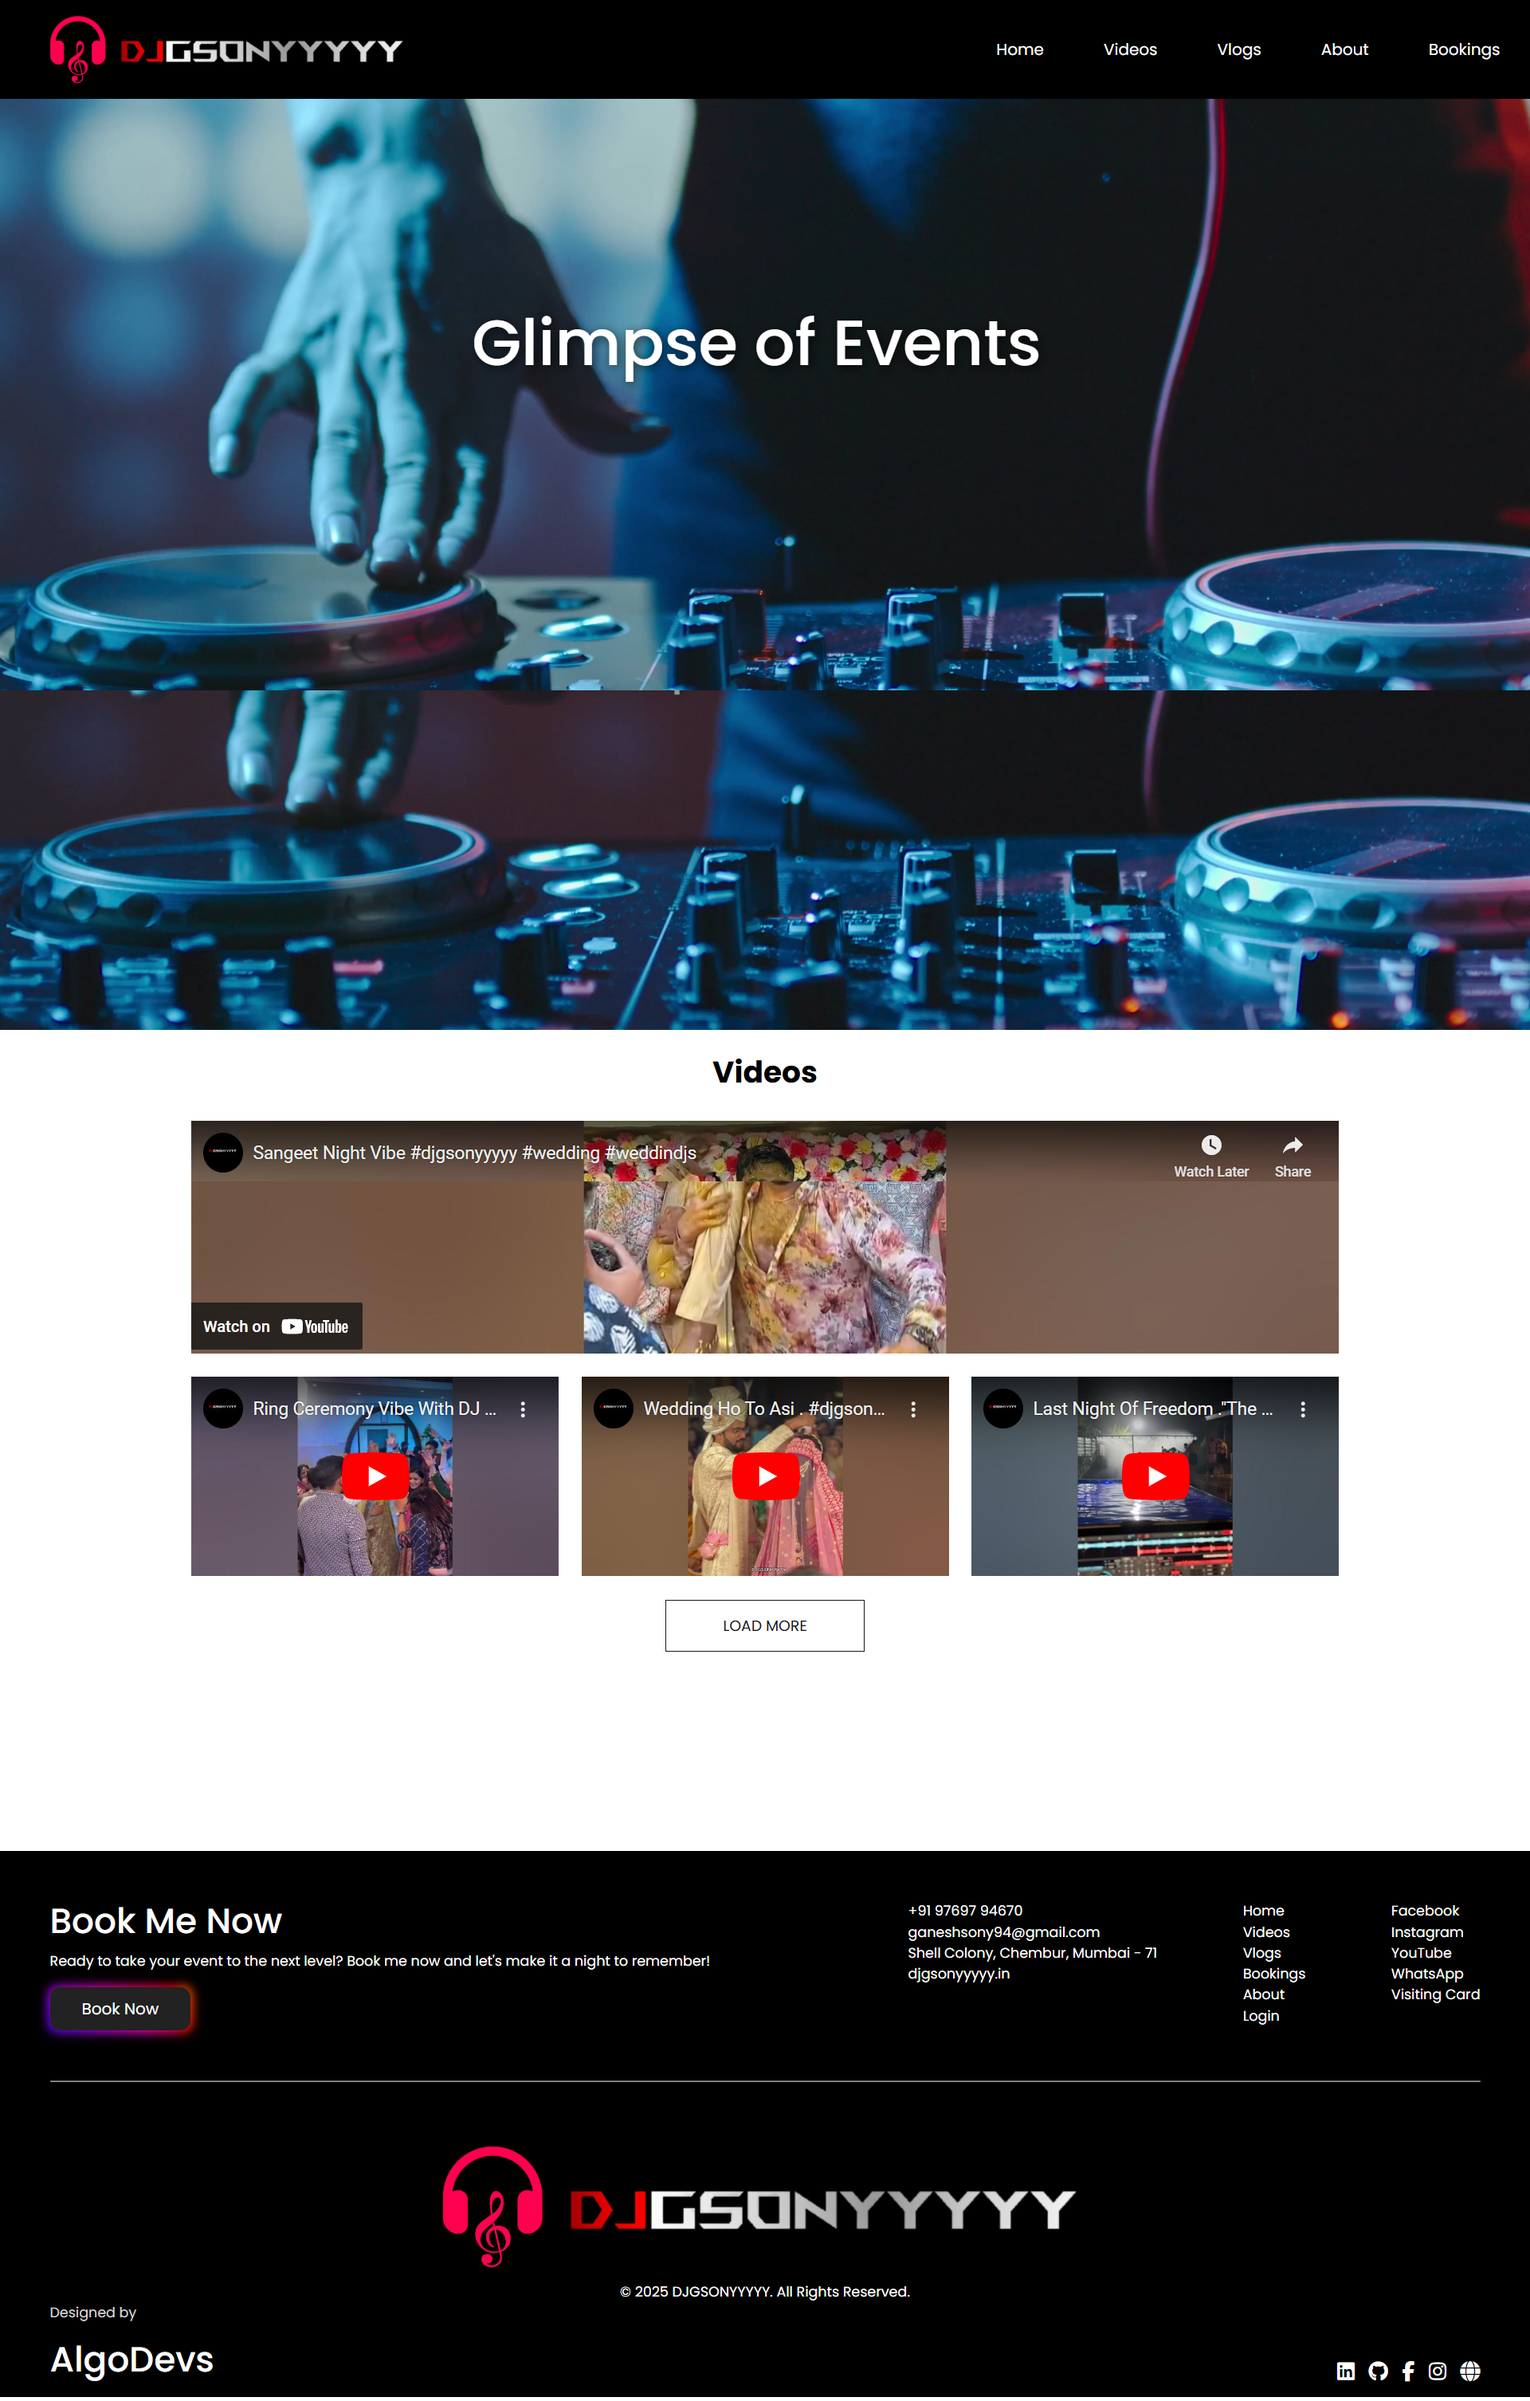
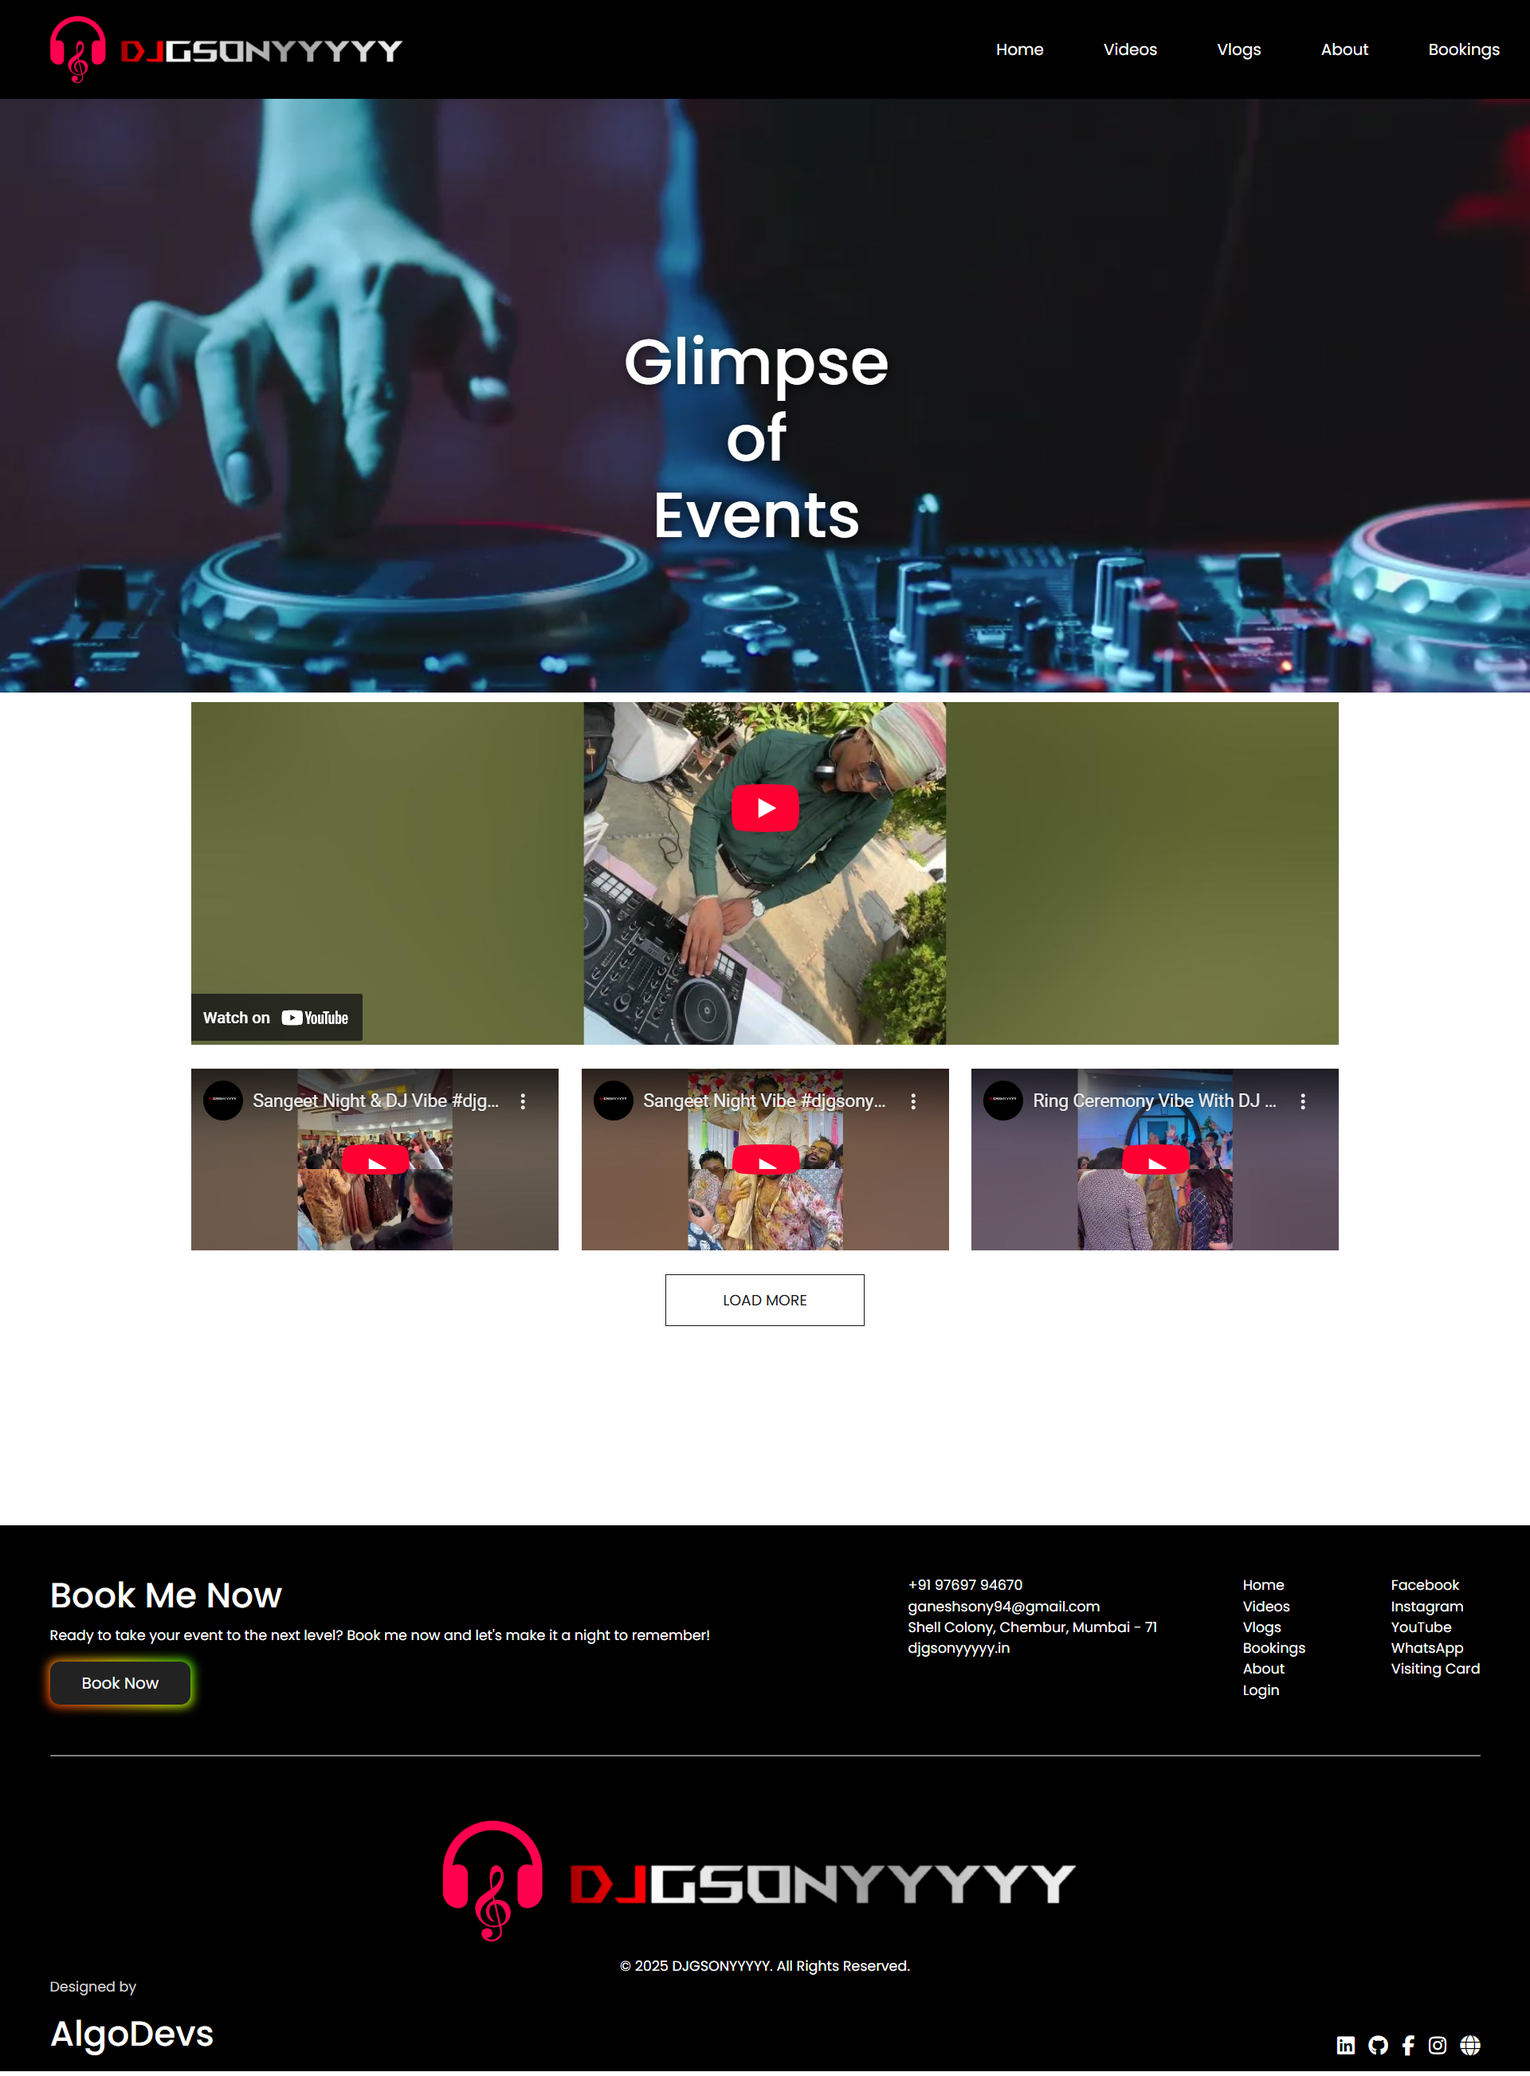
Changes as per Ganesh

diff --git a/view/about.html b/view/about.html
@@ -3,7 +3,7 @@
     Author: Yash Balotiya
     Description: This file contains all the HTML5 code of Contact Me Page.
     Created on: 09/01/2025
-    Last Modified: 04/02/2025
+    Last Modified: 16/02/2025
 -->
 
 <!DOCTYPE html>
@@ -208,7 +208,7 @@
                             memorable. With a curated playlist that reflects your unique love story, I’ll create an
                             atmosphere of joy and romance that you and your guests will never forget.</p>
 
-                        <b><i>MAHALAXMI RACE COURCE MUMBAI, WANKHEDE STADIUM MUMBAI, DAMAN, VAPI, RAJASTHAN,
+                        <b><i>MAHALAXMI RACE COURCE MUMBAI, WANKHEDE STADIUM MUMBAI, SNDT COLLEGE, SANTACRUZ, JW MARRIOTT SAHAR, DAMAN, VAPI, RAJASTHAN,
                                 PUNE, KOLKATA, BANGALORE</i></b>
                     </div>
                 </div>

diff --git a/main.js b/main.js
@@ -3,7 +3,7 @@
  * Author: Yash Balotiya
  * Description: This file contains the main JavaScript code for the Home Page.
  * Created on: 31/12/2024
- * Last Modified: 02/02/2025
+ * Last Modified: 16/02/2025
 */
 
 // My Services Section Animation
@@ -65,6 +65,8 @@ async function fetchVlogsVideos() {
 
         const data1 = {
             "urls": [
+                "https://www.youtube.com/embed/rGZxpZPU2v8",
+                "https://www.youtube.com/embed/OgLMoCNKoo0",
                 "https://www.youtube.com/embed/aHshlgR1RoQ",
                 "https://www.youtube.com/embed/-hxVmmUPHQw",
                 "https://www.youtube.com/embed/3EUcmOz4Tzs",

diff --git a/controller/videos.js b/controller/videos.js
@@ -3,7 +3,7 @@
  * Author: Yash Balotiya
  * Description: This file contains the Logical Part of Videos & Vlogs Page.
  * Created on: 03/01/2025
- * Last Modified: 02/02/2025
+ * Last Modified: 16/02/2025
 */
 
 // ANIMATION1
@@ -87,6 +87,8 @@ function loadVideos() {
     if (type === "1") {
         videos = {
             "urls": [
+                "https://www.youtube.com/embed/rGZxpZPU2v8",
+                "https://www.youtube.com/embed/OgLMoCNKoo0",
                 "https://www.youtube.com/embed/aHshlgR1RoQ",
                 "https://www.youtube.com/embed/-hxVmmUPHQw",
                 "https://www.youtube.com/embed/3EUcmOz4Tzs",
